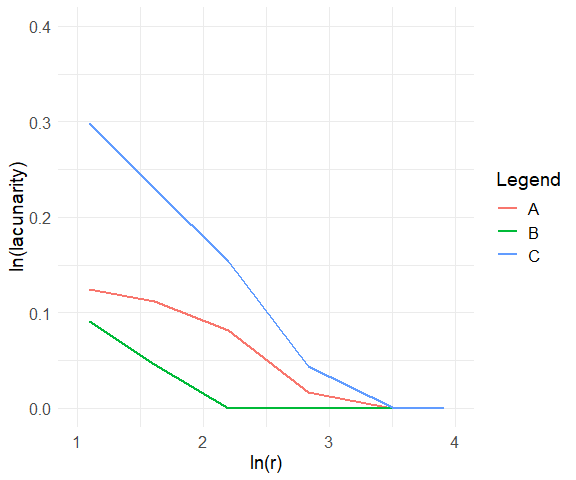
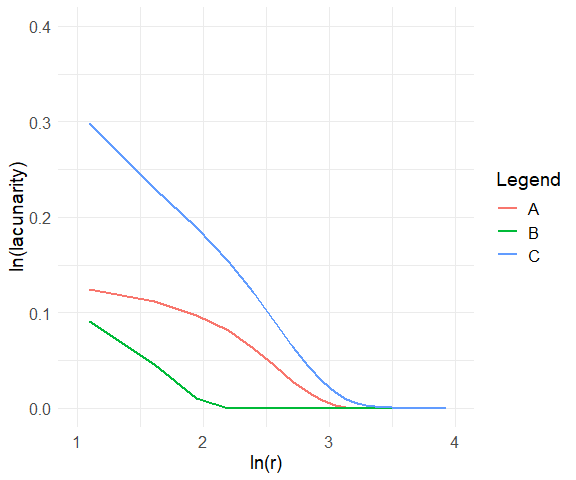
Lacunarity: limit size of r

diff --git a/README.md b/README.md
@@ -160,6 +160,16 @@ of the box mass values, respectively. Lacunarity can now be derived as
 \end{align*}
 ")
 
+![r](https://latex.codecogs.com/svg.latex?r "r") should not be greater
+than half of the shorter dimension of the input raster. If
+![r](https://latex.codecogs.com/svg.latex?r "r") is not provided by the
+user, it will be automatically generated as the function
+![r\_p = 2^p + 1](https://latex.codecogs.com/svg.latex?r_p%20%3D%202%5Ep%20%2B%201 "r_p = 2^p + 1"),
+where ![p](https://latex.codecogs.com/svg.latex?p "p") is a whole number
+commencing at 1 until
+![r\_p](https://latex.codecogs.com/svg.latex?r_p "r_p") reaches half of
+the shorter dimension.
+
 ## Examples
 
 For demonstration purposes I replicated the examples provided by
@@ -176,7 +186,7 @@ sample_rast <- rast("data_raw/hoechstetter.tif")
 <img src="man/figures/README-unnamed-chunk-2-1.png" width="100%" />
 
 ``` r
-sample_lac <- lacunarity(x = sample_rast, plot = TRUE)
+sample_lac <- lacunarity(x = sample_rast, r_vec = 3:50, plot = TRUE)
 ```
 
 <img src="man/figures/README-unnamed-chunk-3-1.png" width="100%" />
@@ -219,8 +229,9 @@ citation("spatLac")
 ### Package contributors
 
 Brinkmann, Sebastian (Creator and author) e-mail:
-<sebastian.brinkmann@fau.de> Dr. S.M. Labib (ROLE) e-mail:
-<sml80@medschl.cam.ac.uk>
+<sebastian.brinkmann@fau.de>
+
+Dr. S.M. Labib (ROLE) e-mail: <sml80@medschl.cam.ac.uk>
 
 ## Bibliography
 
